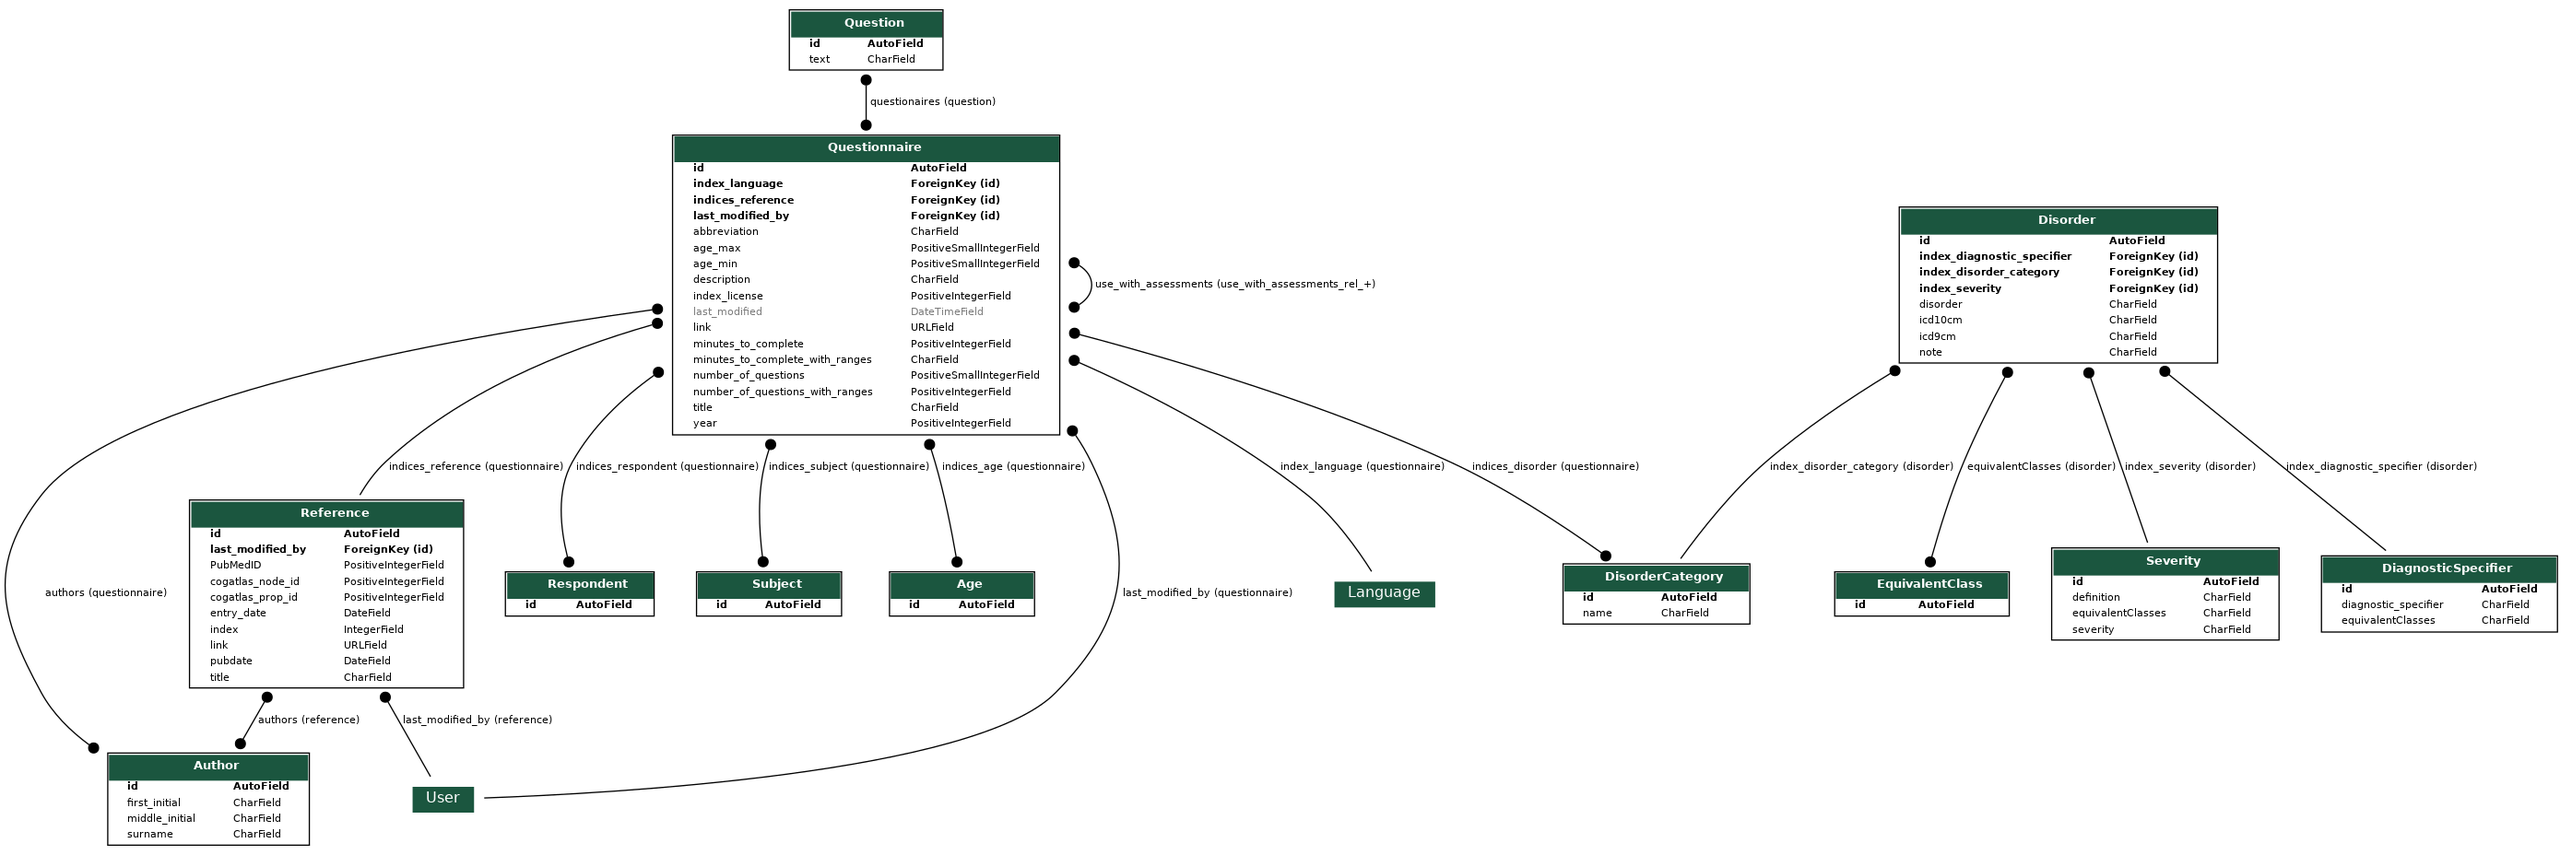
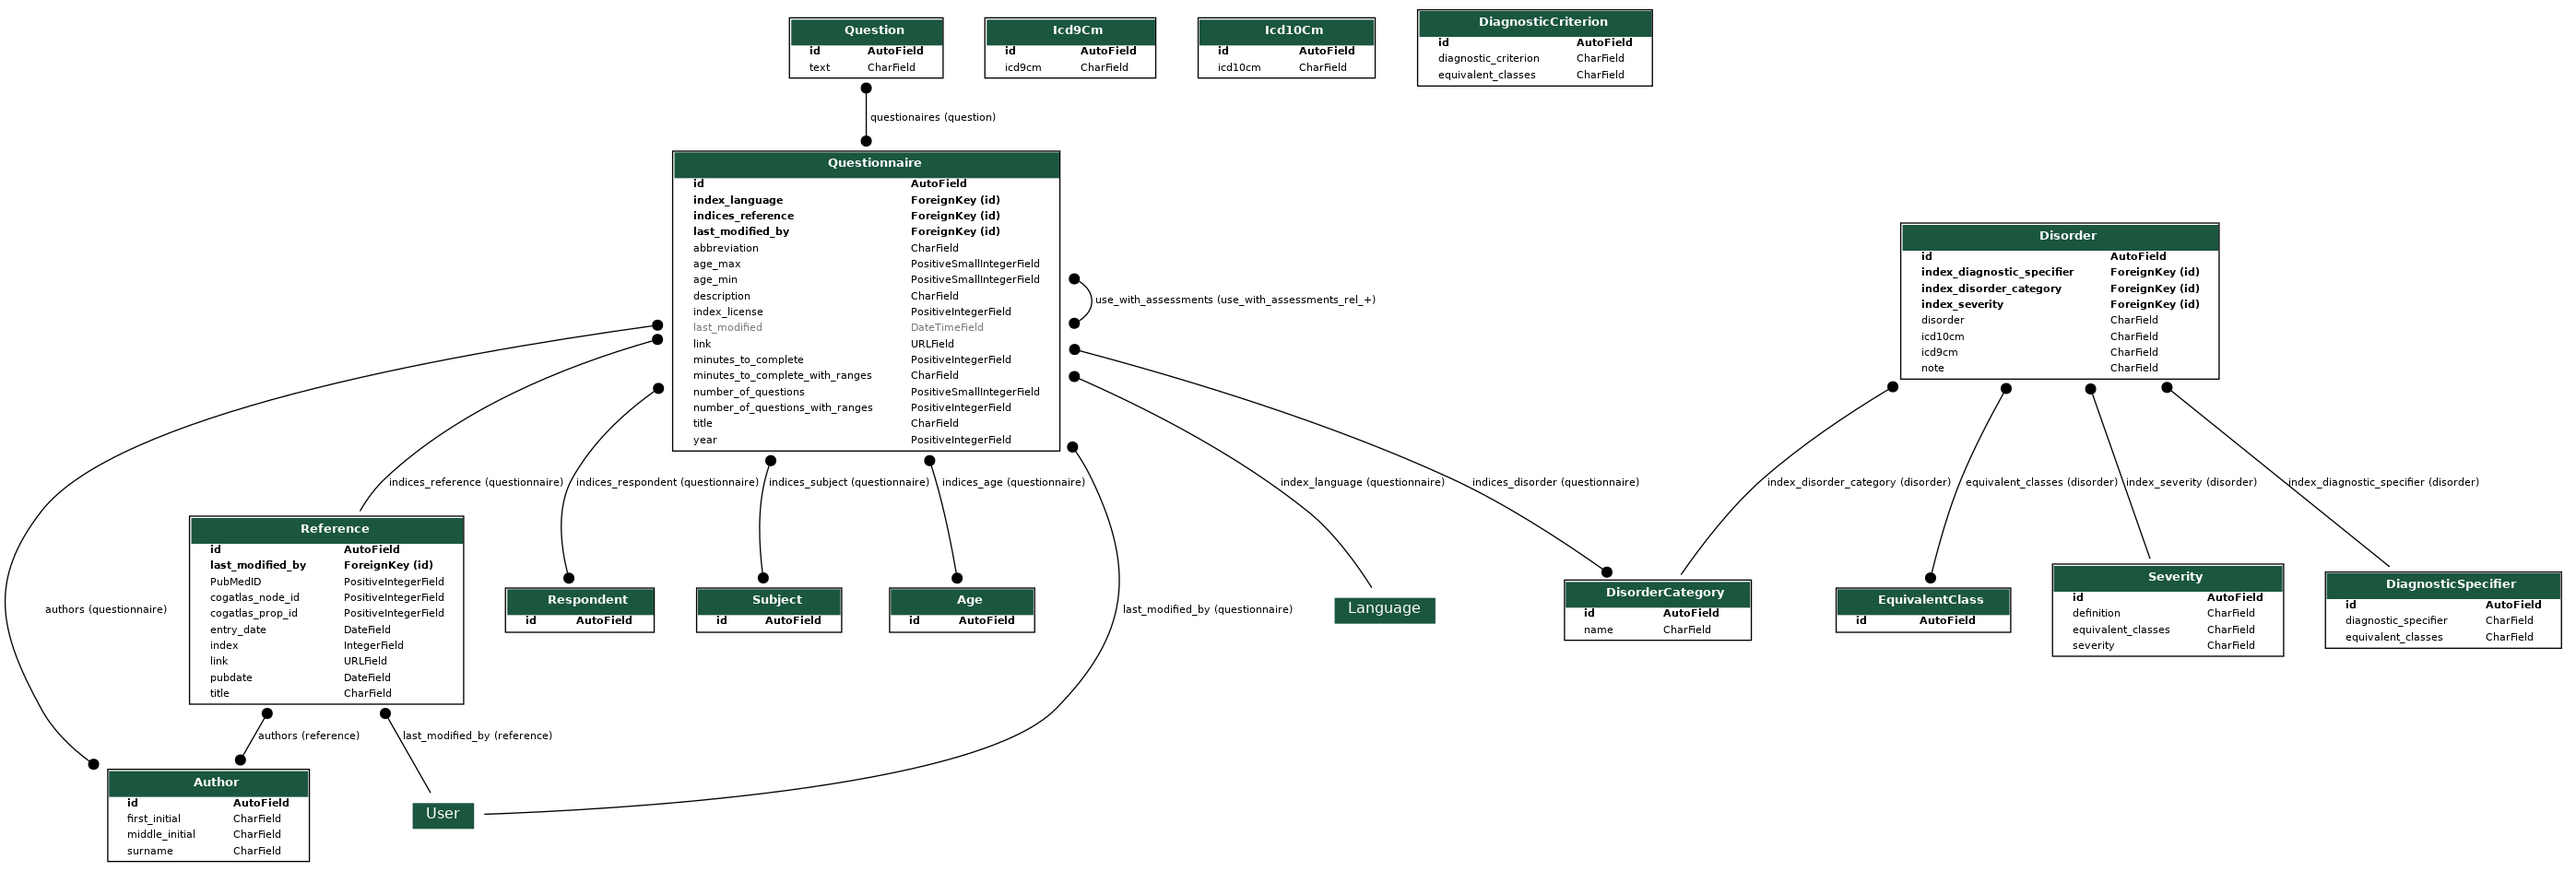
add func for cols with comma seperated vals, add icd9cm & icd10cm models

diff --git a/api/disorders/models.py b/api/disorders/models.py
@@ -1,13 +1,12 @@
 from django.db import models
 
-# class Icd9cm(models.model):	
-#     pass
+class Icd9Cm(models.Model):
+    icd9cm = models.CharField(max_length=50)
 
-# class Icd10cm(models.model):
-#     pass 
+class Icd10Cm(models.Model):
+    icd10cm = models.CharField(max_length=50)
 
 class EquivalentClass(models.Model):
-
     
     pass
 
@@ -49,8 +48,8 @@ class Disorder(models.Model):
     #  'index_disorder_subsubsubcategory',
     disorder = models.CharField('name of the disorder', max_length=200)
     equivalent_classes = models.ManyToManyField('EquivalentClass')
-    icd9cm = models.CharField(max_length=100, null=True)
-    icd10cm = models.CharField(max_length=100, null=True)
+    icd9cm = models.CharField(max_length=100, null=True) # needs to be changed to a ManyToManyField
+    icd10cm = models.CharField(max_length=100, null=True) # needs to be changed to a ManyToManyField
     index_diagnostic_specifier = models.ForeignKey(DiagnosticSpecifier, null=True, on_delete=models.SET_NULL)
     #  'index_diagnostic_inclusion_criterion',
     #  'index_diagnostic_inclusion_criterion2',

diff --git a/README.md b/README.md
@@ -47,7 +47,7 @@ data-ingest/data/processed$ git add -f fixtures.dvc
 To update run
 
 ```bash
-/api$ python manage.py graph_models assessments -o ../models.png
+/api$ python manage.py graph_models assessments disorders -o ../models.png
 ```
 
 ![current Entity Relationship Diagram](./models.png)
@@ -76,51 +76,47 @@ To update run
 
 ## Questions
 
-_Q. In the signs_symptoms sheet of the disorders file, should the red and grey columns be included?_  
-A. Let's discuss with Anirudh.
+**_Q.** In the signs_symptoms sheet of the disorders file, should the red and grey columns be included?_  
+**A.** Let's discuss with Anirudh.
 
-_Q. Are there any considerations for enabling easier conversion to RDF?_  
-A.   Not that we can think of right now
+_**Q.** In the disorders sheet of the disorders file, do index_diagnostic_inclusion_criterion 1 & 2 have specific meanings? or is it just that disorders can have multiple inclusion & exclusion criteria? (In almost all other cases when there are multiple references to another sheet they have been entered as comma separated values in a cell, but in this case there are separate columns for index_diagnostic_inclusion_criterion_1  & index_diagnostic_inclusion_criterion_)_  
+**A.**
 
-_Q. Should the existing primary indices in the sheets be used as the primary keys in the DB?_  
-A. Yes
+_**Q.** Is it important to keep the history of the date fields (which show last modified)?_  
+**A.** It would be good practice to record when (and in some cases who). 
 
-_Q. Is it important to keep the history of the date fields (which show last modified)?_  
-A. It would be good practice to record when (and in some cases who). 
+_**Q.** Should the existing primary indices in the sheets be used as the primary keys in the DB?_  
+**A.** Yes
 
-_Q. Do non-admin level requests require authentication?_   
-A.
+_**Q.** Do non-admin level requests require authentication?_   
+**A.**
 
-_Q. Beyond standard CRUD operations, what queries are needed ?_  
-A.
+_**Q.** Are there any particular data standards that need to be enforced (no nulls, date field standards)?_  
+**A.** Anything consistent for dates; there will be a lot of empty entries.
 
-_Q. Should the fields be renamed to a convention or keep the same for ease of reference (e.g.: index_language -> fk_language)?_  
-A. for now, field names have been kept same as much as possible, but all snake_casing has been maintained throughout
+_**Q.** Should the fields be renamed to a convention or keep the same for ease of reference (e.g.: index_language -> fk_language)?_  
+**A.** for now, field names have been kept same as much as possible, but all snake_casing has been maintained throughout
 
-_Q. Are there any particular data standards that need to be enforced (no nulls, date field standards)?_  
-A. Anything consistent for dates; there will be a lot of empty entries.
+_**Q.** Should the DB track versions of questionaires? i.e. be able to look up how an assessment looked on a particular day_  
+**A.**  not necessary intially. We will just track the date that the assessment was last modified.
 
+_**Q.** What are the Cogatlas_node and prop id columns in the references and tasks sheet?_  
+**A.**  These are references to www.cognitiveatlas.org and can be ignored for now.
 
-_Q. Should the DB track versions of questionaires? i.e. be able to look up how an assessment looked on a particular day_  
-A.  not necessary intially. We will just track the date that the assessment was last modified.
+_**Q.** What are the 'Anirudh left' & 'Anirudh right' columns for?_   
+**A.** these are rough work columns and can be ignored
 
-_Q. What are the Cogatlas_node and prop id columns in the references and tasks sheet?_  
-A.  These are references to www.cognitiveatlas.org and can be ignored for now.
+_**Q.** what is the purpose of indices_language_not_in_mhdb?_   
+**A.** These are languages that the assessment has been published in, but is not yet available in Mindlogger  
 
-_Q. What are the 'Anirudh left' & 'Anirudh right' columns for?_   
-A. these are rough work columns and can be ignored
+_**Q.** What do the colored columns indicate?_  
+**A.**  there have been many different collaborators so there is not a consistent color scheme. It's best to ask about specific sheets in the MHDB slack channel.  
 
-_Q. what is the purpose of indices_language_not_in_mhdb?_   
-A. These are languages that the assessment has been published in, but is not yet available in Mindlogger  
+_**Q.** What are the grey columns indicating?_   
+**A.** Column is not important and can be ommitted from the DB. It will be assumed that these columns may not exist in future spreadsheets
 
-_Q. What do the colored columns indicate?_  
-A.  there have been many different collaborators so there is not a consistent color scheme. It's best to ask about specific sheets in the MHDB slack channel.  
-
-_Q. What are the grey columns indicating?_   
-A. Column is not important and can be ommitted from the DB. It will be assumed that these columns may not exist in future spreadsheets
-
-_Q. which sheets are most important?_  
-A. Disorders, Questionnaire, Anirudh will provide a more detailed list soon 
+_**Q.** which sheets are most important?_  
+**A.** Disorders, Asessments. Questionnaire, see Anirudh's google doc for more detailed
 
 
 ## Notes & references
